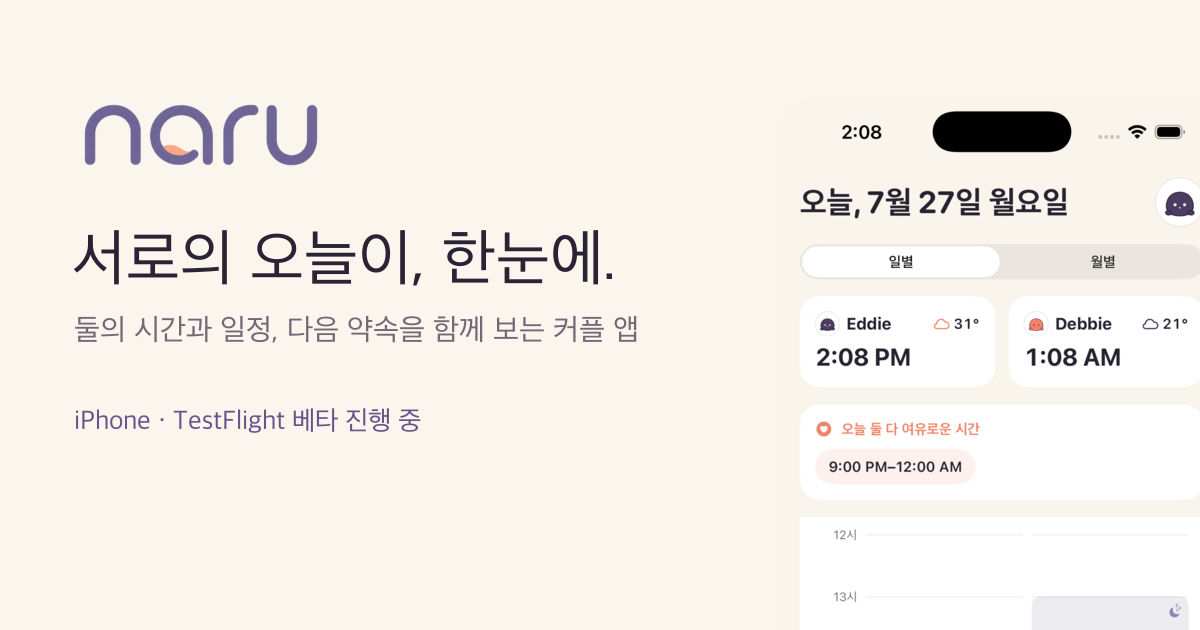
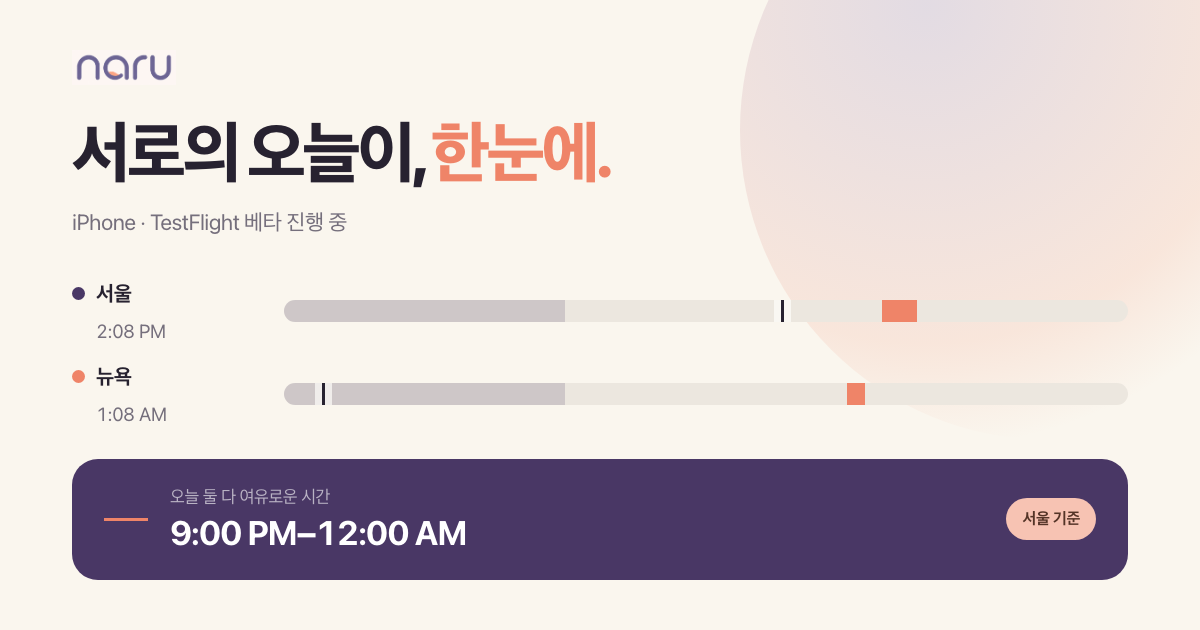
og: 공유 카드를 겹치는 시간 증명으로 교체
기존 카드는 세로 스크린샷을 옆에 뒀는데, 피드에서 절반 크기로
줄면 정작 유일한 증거인 "9:00 PM-12:00 AM"이 읽히지 않았다.
서울/뉴욕 트랙과 결과만 남겨 600px에서도 읽히게 한다.

부제 "둘의 시간과 일정, 다음 약속을 함께 보는 커플 앱"도 이번에
바꾼 히어로와 어긋나 있었다.

원본을 og-card.html로 저장소에 둔다. 출시해서 배지 문구를 바꿀 때
이미지 편집기 없이 다시 캡처하면 된다.

diff --git a/og-card.html b/og-card.html
@@ -1,0 +1,248 @@
+<!doctype html>
+<html lang="ko">
+<head>
+  <meta charset="utf-8">
+  <title>Naru OG 카드 원본</title>
+  <!--
+    assets/og-card.png의 원본이다. 문구나 색을 바꾸면 이 파일을 고치고 다시 캡처한다.
+
+      "/Applications/Google Chrome.app/Contents/MacOS/Google Chrome" \
+        --headless --disable-gpu --hide-scrollbars \
+        --screenshot=assets/og-card.png --window-size=1200,630 \
+        --virtual-time-budget=4000 "file://$PWD/og-card.html"
+
+    카드는 피드에서 절반 이하 크기로 보이므로 본문 대신 그림이 말하게 둔다.
+    색은 styles.css의 :root와 같은 값이고, 한쪽만 고치면 어긋난다.
+  -->
+  <style>
+    :root {
+      --cream: #faf6ee;
+      --paper: #fffdf9;
+      --ink: #272230;
+      --muted: #756f7c;
+      --plum: #493765;
+      --coral: #ef8468;
+      --line: rgba(39, 34, 48, 0.12);
+    }
+
+    * { box-sizing: border-box; }
+
+    body {
+      margin: 0;
+      width: 1200px;
+      height: 630px;
+      padding: 62px 72px;
+      display: flex;
+      flex-direction: column;
+      justify-content: center;
+      color: var(--ink);
+      background: var(--cream);
+      font-family: -apple-system, BlinkMacSystemFont, "SF Pro Display", "Apple SD Gothic Neo", "Noto Sans KR", sans-serif;
+      letter-spacing: -0.02em;
+      word-break: keep-all;
+      -webkit-font-smoothing: antialiased;
+    }
+
+    /* 히어로와 같은 은은한 원. 카드가 납작해 보이지 않게 하는 정도로만 쓴다. */
+    body::before {
+      content: "";
+      position: absolute;
+      z-index: 0;
+      top: -180px;
+      right: -160px;
+      width: 620px;
+      height: 620px;
+      border-radius: 50%;
+      background: radial-gradient(circle at 30% 30%, rgba(143, 125, 189, 0.22), rgba(239, 132, 104, 0.14) 55%, transparent 72%);
+    }
+
+    .card-head,
+    .board { position: relative; z-index: 1; }
+
+    /* 워드마크 PNG는 알파가 없는 흰 배경이라 사이트와 같이 multiply로 얹는다. */
+    .wordmark {
+      width: 104px;
+      height: auto;
+      mix-blend-mode: multiply;
+    }
+
+    h1 {
+      margin: 26px 0 0;
+      font-size: 68px;
+      font-weight: 800;
+      line-height: 1.1;
+      letter-spacing: -0.055em;
+    }
+
+    h1 em {
+      color: var(--coral);
+      font-style: normal;
+    }
+
+    .stage {
+      margin: 20px 0 0;
+      color: var(--muted);
+      font-size: 22px;
+    }
+
+    .board {
+      margin-top: 44px;
+      display: grid;
+      gap: 22px;
+    }
+
+    .row {
+      display: grid;
+      grid-template-columns: 186px minmax(0, 1fr);
+      align-items: center;
+      gap: 26px;
+    }
+
+    .who {
+      display: grid;
+      grid-template-columns: 13px 1fr;
+      align-items: center;
+      gap: 11px;
+    }
+
+    .dot {
+      width: 13px;
+      aspect-ratio: 1;
+      border-radius: 50%;
+    }
+
+    .dot-plum { background: var(--plum); }
+    .dot-coral { background: var(--coral); }
+
+    .who strong { font-size: 21px; }
+
+    .who time {
+      grid-column: 2;
+      margin-top: 2px;
+      color: var(--muted);
+      font-size: 19px;
+      font-variant-numeric: tabular-nums;
+    }
+
+    .track {
+      position: relative;
+      height: 22px;
+      overflow: hidden;
+      background: #ece7df;
+      border-radius: 999px;
+    }
+
+    .sleep,
+    .busy {
+      position: absolute;
+      top: 0;
+      bottom: 0;
+    }
+
+    .sleep { background: rgba(73, 55, 101, 0.18); }
+    .busy { background: var(--coral); }
+
+    /* index.html의 overlap-board와 같은 순간이다 — 서울 오후 2시, 뉴욕 새벽 1시. */
+    .sleep { left: 0; width: 33.3%; }
+    .busy-seoul { left: 70.8%; width: 4.2%; }
+    .busy-new-york { left: 66.7%; width: 2.1%; }
+
+    .now {
+      position: absolute;
+      z-index: 2;
+      top: -4px;
+      bottom: -4px;
+      width: 3px;
+      background: var(--ink);
+      box-shadow: 0 0 0 7px rgba(255, 253, 249, 0.7);
+    }
+
+    .now-seoul { left: 58.9%; }
+    .now-new-york { left: 4.5%; }
+
+    .result {
+      margin-top: 12px;
+      padding: 28px 32px;
+      display: grid;
+      grid-template-columns: 44px 1fr auto;
+      align-items: center;
+      gap: 22px;
+      color: white;
+      background: var(--plum);
+      border-radius: 26px;
+    }
+
+    .result-line {
+      width: 44px;
+      height: 3px;
+      background: var(--coral);
+    }
+
+    .result small {
+      display: block;
+      color: rgba(255, 255, 255, 0.62);
+      font-size: 17px;
+    }
+
+    .result strong {
+      display: block;
+      margin-top: 4px;
+      font-size: 34px;
+      letter-spacing: -0.03em;
+      font-variant-numeric: tabular-nums;
+    }
+
+    .status {
+      padding: 11px 16px;
+      color: #543427;
+      background: #f7c3b3;
+      border-radius: 999px;
+      font-size: 16px;
+      font-weight: 700;
+    }
+  </style>
+</head>
+<body>
+  <div class="card-head">
+    <img class="wordmark" src="./assets/naru-wordmark.png" alt="Naru" width="929" height="310">
+    <h1>서로의 오늘이, <em>한눈에.</em></h1>
+    <!-- 출시 후에는 이 줄을 "iPhone · App Store"로 바꾸고 카드를 다시 캡처한다. -->
+    <p class="stage">iPhone · TestFlight 베타 진행 중</p>
+  </div>
+
+  <div class="board">
+    <div class="row">
+      <div class="who">
+        <span class="dot dot-plum"></span>
+        <strong>서울</strong>
+        <time>2:08 PM</time>
+      </div>
+      <div class="track">
+        <span class="sleep"></span>
+        <span class="busy busy-seoul"></span>
+        <span class="now now-seoul"></span>
+      </div>
+    </div>
+    <div class="row">
+      <div class="who">
+        <span class="dot dot-coral"></span>
+        <strong>뉴욕</strong>
+        <time>1:08 AM</time>
+      </div>
+      <div class="track">
+        <span class="sleep"></span>
+        <span class="busy busy-new-york"></span>
+        <span class="now now-new-york"></span>
+      </div>
+    </div>
+    <div class="result">
+      <span class="result-line"></span>
+      <div>
+        <small>오늘 둘 다 여유로운 시간</small>
+        <strong>9:00 PM–12:00 AM</strong>
+      </div>
+      <span class="status">서울 기준</span>
+    </div>
+  </div>
+</body>
+</html>

diff --git a/index.html b/index.html
@@ -14,11 +14,12 @@
   <meta property="og:title" content="Naru — 서로의 오늘이, 한눈에">
   <meta property="og:description" content="함께 깨어 있는 시간을, 나루가 찾아줘요. 같이 있어도 좋지만 멀리 있을수록 더 필요해요.">
   <!-- 공유 카드는 1200×630 PNG로 따로 만든다. 세로 스크린샷은 카드에서 잘리고,
-       카카오톡·트위터 등 일부 크롤러는 WebP를 읽지 못한다. -->
+       카카오톡·트위터 등 일부 크롤러는 WebP를 읽지 못한다.
+       원본은 og-card.html이고, 문구를 바꾸면 거기서 다시 캡처한다. -->
   <meta property="og:image" content="https://naru-app.github.io/site/assets/og-card.png">
   <meta property="og:image:width" content="1200">
   <meta property="og:image:height" content="630">
-  <meta property="og:image:alt" content="Naru — 서로의 오늘이, 한눈에. 두 사람의 현지 시간과 하루를 나란히 보여주는 홈 화면">
+  <meta property="og:image:alt" content="Naru — 서로의 오늘이, 한눈에. 서울 오후 2시와 뉴욕 새벽 1시의 하루를 나란히 놓고 둘 다 여유로운 시간을 오후 9시부터 자정으로 찾아낸 카드">
   <meta name="twitter:card" content="summary_large_image">
   <meta name="twitter:image" content="https://naru-app.github.io/site/assets/og-card.png">
   <link rel="canonical" href="https://naru-app.github.io/site/">
